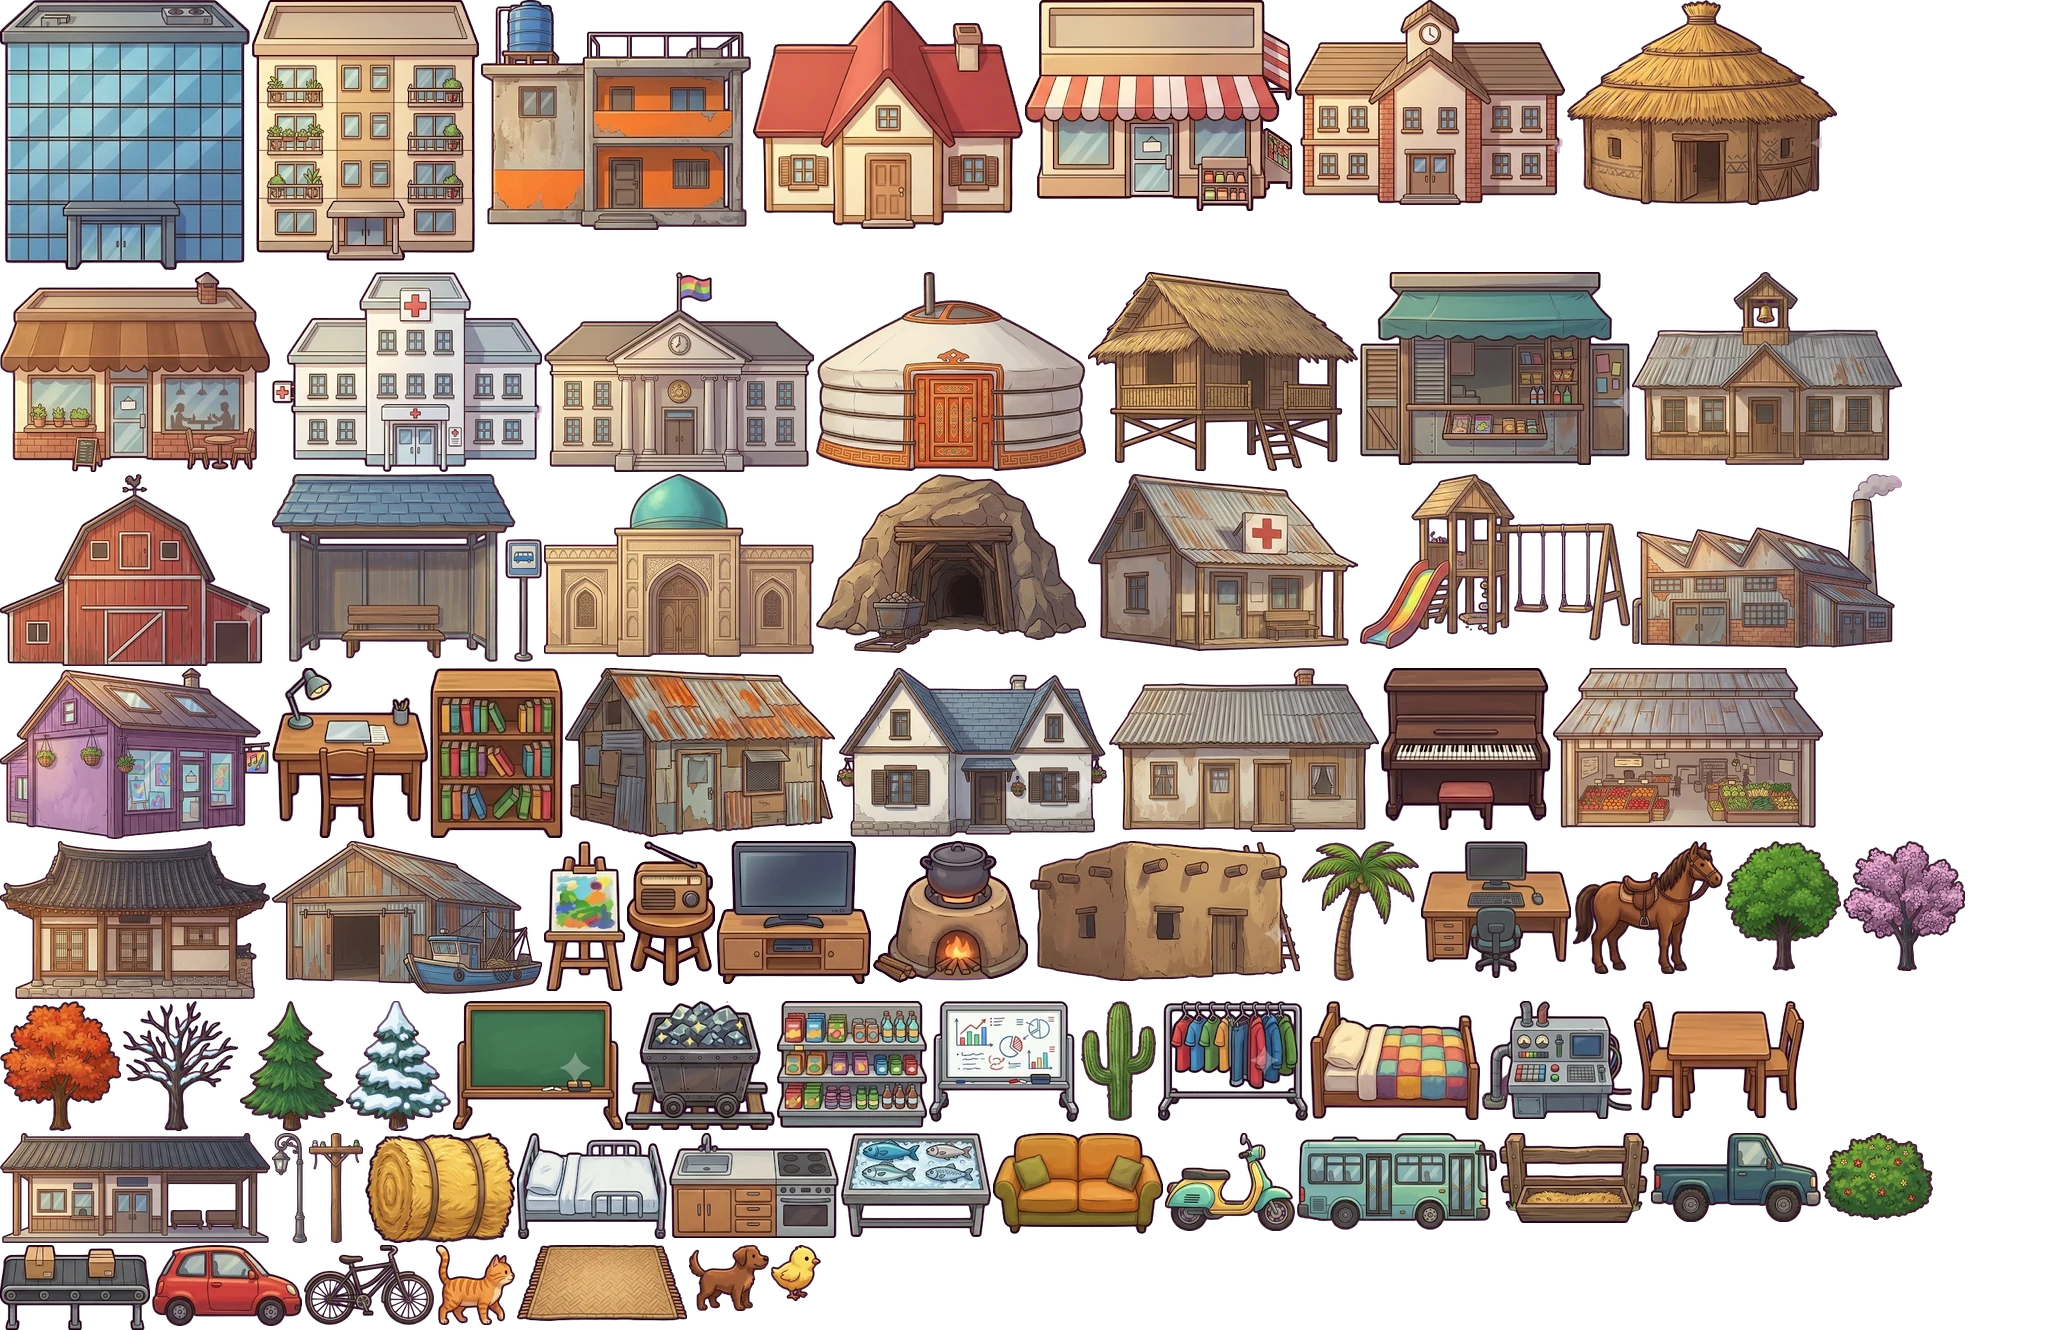
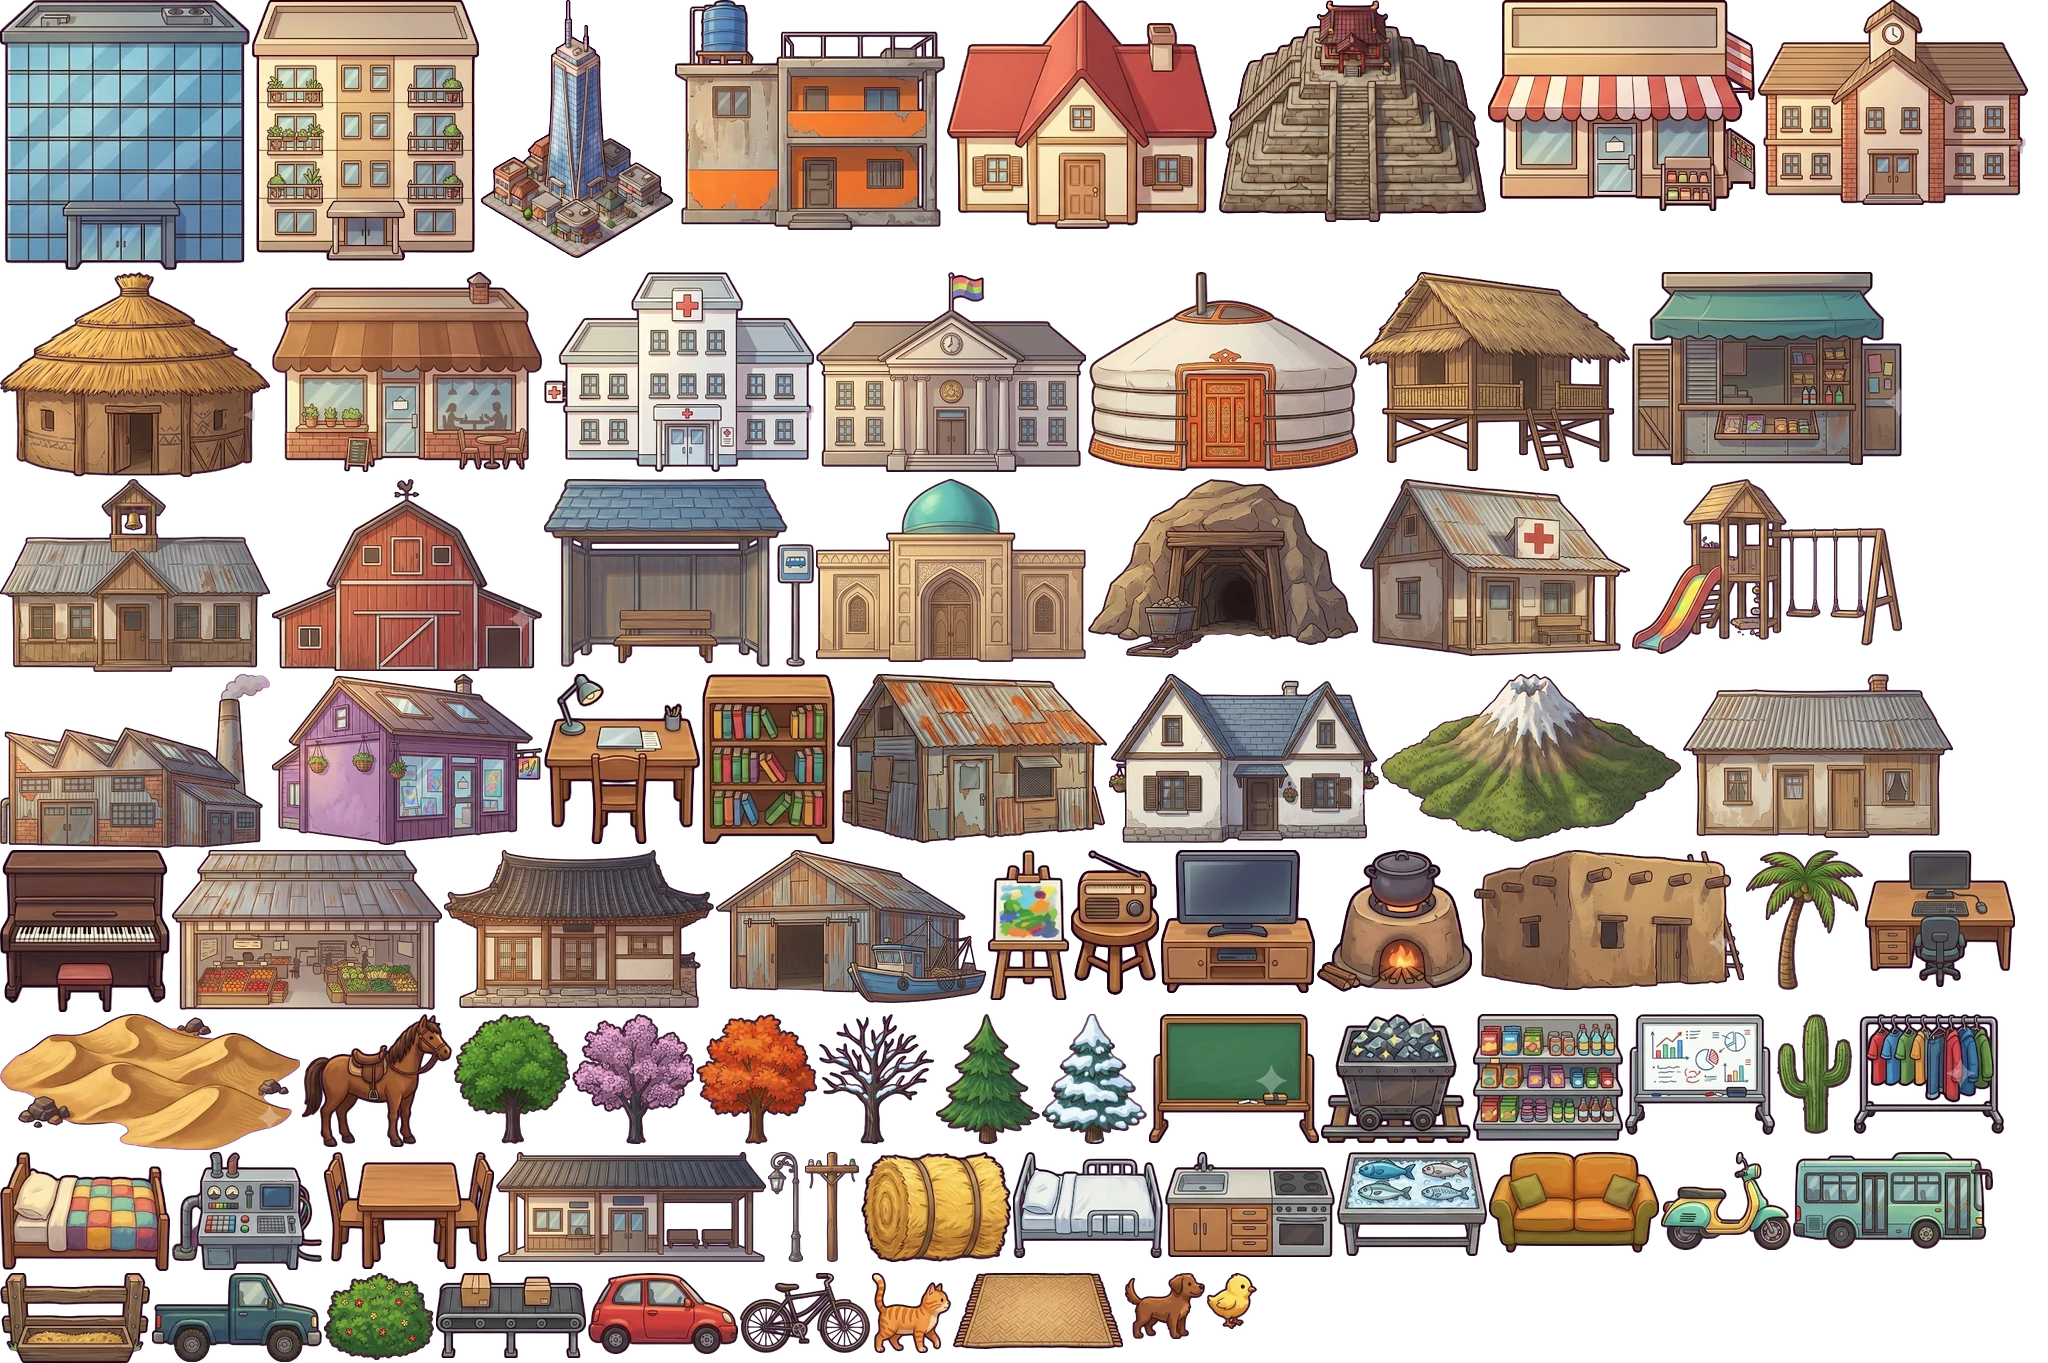
Gemini art round 2: title painting, landmarks, region- and sex-matched ending paintings
Claude-Session: https://claude.ai/code/session_01QZTZuescjVpiySQdVTiWS8

diff --git a/index.html b/index.html
@@ -634,6 +634,9 @@ canvas#card{box-shadow:0 14px 36px rgba(0,0,0,.55),0 0 0 1px rgba(255,201,168,.3
 #rotateTip button{font:inherit;border:2px solid #fff;background:transparent;color:#fff;border-radius:10px;padding:10px 16px;cursor:pointer}
 #rotateTip button.pri{background:#F2C14E;color:#283038;border-color:#F2C14E;font-weight:700}
 @media (orientation:portrait) and (pointer:coarse) and (max-width:820px){ body.ingame:not(.portraitOK) #rotateTip{display:flex} }
+
+.pixcv{image-rendering:auto}
+#titleCv{max-width:min(560px,100%)}
 </style>
 </head>
 <body>
@@ -8264,7 +8267,7 @@ function finishLife(){
   const who = young ? (dadOK?`엄마 ${josa(momN,'과','와')} 아빠 ${josa(dadN,'이','가')} 곁을 지키고 있었습니다.`:`엄마 ${josa(momN,'이','가')} 곁을 지키고 있었습니다.`)
     : withN.length?`${josa(list(withN),'이','가')} 곁을 지키고 있었습니다.`:(L.s.r>=55?`오랜 친구 ${P.friend?josa(P.friend.n,'이','가'):'친구들이'} 곁을 지키고 있었습니다.`:'창밖으로는 늘 걷던 길이 보였습니다.');
   const how = L.cause==='epi'?`${josa(cz.n,'이','가')} 번진 해, 갑작스러운 이별이었습니다.`:L.cause==='sudden'?'예고 없이 찾아온, 갑작스러운 이별이었습니다.':young?'한동안 앓던 끝이었습니다.':'오래 앓던 끝에, 마지막 시간은 집에서 가족과 함께 보냈습니다.';
-  const s1=`<p class="soft">${by+a}년 · ${a}살 · ${seasonOf(L)} · ${esc(C.n)} ${esc(L.town||'')}</p><p class="big">${esc(nm)}(${by}~${by+a})${josa(nm,'은','는').slice(nm.length)} ${young?'짧은 삶을 마쳤습니다.':'조용히 눈을 감았습니다.'}</p><p>${esc(who)} ${how}</p><p class="soft">${young?'짧았지만, 분명히 있었던 삶이었습니다.':`${a}년 동안 ${L.n}번의 선택을 하며 살았습니다.`}</p><figure class="lastart"><img src="art/sc/${young?'farewell':'life'}.webp" alt="" onerror="this.parentNode.remove()"></figure>`;
+  const s1=`<p class="soft">${by+a}년 · ${a}살 · ${seasonOf(L)} · ${esc(C.n)} ${esc(L.town||'')}</p><p class="big">${esc(nm)}(${by}~${by+a})${josa(nm,'은','는').slice(nm.length)} ${young?'짧은 삶을 마쳤습니다.':'조용히 눈을 감았습니다.'}</p><p>${esc(who)} ${how}</p><p class="soft">${young?'짧았지만, 분명히 있었던 삶이었습니다.':`${a}년 동안 ${L.n}번의 선택을 하며 살았습니다.`}</p><figure class="lastart"><img src="art/sc/${scArtName(young?'farewell':'life',L)}.webp" alt="" onerror="this.parentNode.remove()"></figure>`;
   // 2막 · 세 장면
   const three=pickThree(L), hp=(L.hist||[]).reduce((b,x)=>x.j>(b?b.j:-1)?x:b,null);
   const photosHTML=arr=>`<ul class="photos">${arr.map((m,i)=>`<li style="animation-delay:${i*.6}s"><figure class="pf" style="margin:0"><canvas data-mi="${L.mem.indexOf(m)}" width="320" height="240"></canvas><figcaption>${by+m.a}년 · ${m.a}살</figcaption><small class="cr"></small></figure><div><b>${m.a}살 · ${by+m.a}년</b>${m.q?`<p class="mq">${esc(m.q)}${m.l?`<span class="ml">→ ${esc(m.l)}</span>`:''}</p>`:''}<p>${esc(memT(m))}${m.rp>1?` <small class="rp">(그 뒤로도 ${m.rp-1}번 더)</small>`:''}</p></div></li>`).join('')}</ul><p class="note">사진은 위키백과·위키미디어 공용에 자유 이용으로 공개된 실제 사진입니다(사진 아래에 찍은 사람과 라이선스 표시). 사람이 나오는 장면(결혼·졸업·가족 등)은 이 삶의 모습으로 그린 그림이고, 사진을 불러오지 못하면 그림으로 대신합니다.</p>`;
@@ -8707,7 +8710,7 @@ $('btnMem').onclick=()=>openMem('all');
 /* ========== 그림 자원 (제미나이로 그린 건물·나무·탈것·바닥·장면) ========== */
 // 그림이 다 오기 전이나 못 받으면 예전 도트 그림으로 그린다
 const WR=3;   // 바깥·방 바닥 그림의 해상도 배율
-const ART_MAP={"spr": {"office": [0, 0, 250, 270], "apt": [252, 0, 227, 261], "flat": [481, 0, 270, 230], "house": [753, 0, 270, 229], "shop": [1025, 0, 268, 211], "school": [1295, 0, 270, 205], "thatch": [1567, 0, 270, 205], "cafe": [0, 272, 270, 200], "hospital": [272, 272, 270, 200], "hall": [544, 272, 270, 200], "ger": [816, 272, 270, 199], "stilt": [1088, 272, 270, 199], "kiosk": [1360, 272, 270, 193], "schoolS": [1632, 272, 270, 193], "barn": [0, 474, 270, 192], "busstop": [272, 474, 270, 188], "dome": [544, 474, 270, 183], "mine": [816, 474, 270, 179], "clinic": [1088, 474, 270, 177], "play": [1360, 474, 270, 175], "factory": [1632, 474, 270, 174], "studio": [0, 668, 270, 171], "desk": [272, 668, 156, 170], "shelf": [430, 668, 133, 170], "tin": [565, 668, 270, 169], "house_eu": [837, 668, 270, 169], "tinS": [1109, 668, 270, 164], "piano": [1381, 668, 170, 162], "market": [1553, 668, 270, 160], "hanok": [0, 841, 270, 158], "port": [272, 841, 270, 153], "w_easel": [544, 841, 81, 150], "radio": [627, 841, 88, 145], "tv": [717, 841, 154, 143], "hearth": [873, 841, 155, 142], "adobe": [1030, 841, 270, 140], "palm": [1302, 841, 117, 140], "w_desk": [1421, 841, 150, 137], "horse": [1573, 841, 150, 133], "tree": [1725, 841, 116, 130], "tree_sp": [1843, 841, 122, 130], "tree_au": [0, 1001, 121, 130], "tree_wi": [123, 1001, 115, 130], "pine": [240, 1001, 104, 130], "pine_sn": [346, 1001, 105, 130], "board": [453, 1001, 170, 129], "w_cart": [625, 1001, 150, 129], "w_goods": [777, 1001, 150, 127], "w_white": [929, 1001, 150, 121], "cactus": [1081, 1001, 75, 120], "w_rack": [1158, 1001, 150, 120], "bed": [1310, 1001, 170, 119], "w_machine": [1482, 1001, 150, 118], "table": [1634, 1001, 170, 117], "station": [0, 1133, 270, 110], "lamp": [272, 1133, 35, 110], "pole": [309, 1133, 54, 110], "w_hay": [365, 1133, 150, 110], "w_bed": [517, 1133, 150, 106], "counter": [669, 1133, 170, 105], "w_fish": [841, 1133, 150, 104], "sofa": [993, 1133, 170, 101], "moto": [1165, 1133, 130, 98], "bus": [1297, 1133, 200, 97], "w_fence": [1499, 1133, 150, 90], "truck": [1651, 1133, 170, 89], "bush": [1823, 1133, 110, 87], "w_belt": [0, 1245, 150, 85], "car": [152, 1245, 150, 81], "cycle": [304, 1245, 130, 80], "cat": [436, 1245, 79, 80], "mat": [517, 1245, 170, 76], "dog": [689, 1245, 80, 66], "chick": [771, 1245, 50, 56]}, "tex": ["g", "f", "p", "w", "r", "k", "s", "c", "d", "wood", "tile", "earth", "tatami", "carpet", "lino", "concrete", "rock"]};
+const ART_MAP={"spr": {"office": [0, 0, 250, 270], "apt": [252, 0, 227, 261], "lm_ct": [481, 0, 192, 258], "flat": [675, 0, 270, 230], "house": [947, 0, 270, 229], "lm_tp": [1219, 0, 267, 222], "shop": [1488, 0, 268, 211], "school": [1758, 0, 270, 205], "thatch": [0, 272, 270, 205], "cafe": [272, 272, 270, 200], "hospital": [544, 272, 270, 200], "hall": [816, 272, 270, 200], "ger": [1088, 272, 270, 199], "stilt": [1360, 272, 270, 199], "kiosk": [1632, 272, 270, 193], "schoolS": [0, 479, 270, 193], "barn": [272, 479, 270, 192], "busstop": [544, 479, 270, 188], "dome": [816, 479, 270, 183], "mine": [1088, 479, 270, 179], "clinic": [1360, 479, 270, 177], "play": [1632, 479, 270, 175], "factory": [0, 674, 270, 174], "studio": [272, 674, 270, 171], "desk": [544, 674, 156, 170], "shelf": [702, 674, 133, 170], "tin": [837, 674, 270, 169], "house_eu": [1109, 674, 270, 169], "lm_mt": [1381, 674, 300, 168], "tinS": [1683, 674, 270, 164], "piano": [0, 850, 170, 162], "market": [172, 850, 270, 160], "hanok": [444, 850, 270, 158], "port": [716, 850, 270, 153], "w_easel": [988, 850, 81, 150], "radio": [1071, 850, 88, 145], "tv": [1161, 850, 154, 143], "hearth": [1317, 850, 155, 142], "adobe": [1474, 850, 270, 140], "palm": [1746, 850, 117, 140], "w_desk": [1865, 850, 150, 137], "lm_ds": [0, 1014, 300, 136], "horse": [302, 1014, 150, 133], "tree": [454, 1014, 116, 130], "tree_sp": [572, 1014, 122, 130], "tree_au": [696, 1014, 121, 130], "tree_wi": [819, 1014, 115, 130], "pine": [936, 1014, 104, 130], "pine_sn": [1042, 1014, 105, 130], "board": [1149, 1014, 170, 129], "w_cart": [1321, 1014, 150, 129], "w_goods": [1473, 1014, 150, 127], "w_white": [1625, 1014, 150, 121], "cactus": [1777, 1014, 75, 120], "w_rack": [1854, 1014, 150, 120], "bed": [0, 1152, 170, 119], "w_machine": [172, 1152, 150, 118], "table": [324, 1152, 170, 117], "station": [496, 1152, 270, 110], "lamp": [768, 1152, 35, 110], "pole": [805, 1152, 54, 110], "w_hay": [861, 1152, 150, 110], "w_bed": [1013, 1152, 150, 106], "counter": [1165, 1152, 170, 105], "w_fish": [1337, 1152, 150, 104], "sofa": [1489, 1152, 170, 101], "moto": [1661, 1152, 130, 98], "bus": [1793, 1152, 200, 97], "w_fence": [0, 1273, 150, 90], "truck": [152, 1273, 170, 89], "bush": [324, 1273, 110, 87], "w_belt": [436, 1273, 150, 85], "car": [588, 1273, 150, 81], "cycle": [740, 1273, 130, 80], "cat": [872, 1273, 79, 80], "mat": [953, 1273, 170, 76], "dog": [1125, 1273, 80, 66], "chick": [1207, 1273, 50, 56]}, "tex": ["g", "f", "p", "w", "r", "k", "s", "c", "d", "wood", "tile", "earth", "tatami", "carpet", "lino", "concrete", "rock"]};
 const ART={ok:false,spr:null,tex:null,M:ART_MAP,T:{},P:{}};
 function artLoad(src){ return new Promise((res,rej)=>{ const im=new Image(); im.decoding='async'; im.onload=()=>res(im); im.onerror=rej; im.src=src; }); }
 Promise.all([artLoad('art/spr.webp'),artLoad('art/tex.webp')]).then(([s,t])=>{ ART.spr=s; ART.tex=t; ART.ok=true; worldLayer.k=null; roomLayer.k=null; CACHE.forEach((v,k)=>{ if(/^(VHD|VLO|AHD)/.test(k)) CACHE.delete(k); }); }).catch(()=>{});
@@ -8833,7 +8836,8 @@ animalSprite=function(kind,fr,face){ if(!ART.ok||!artHas(kind)) return _animalSp
 const SC_ART=new Set(['house','flood','quake','storm','drought','heat','cold','fire','volcano','sea','unrest','baby','birth','farewell','wedding','sick','hosp','school','grad','noschool','job','harvest','jobloss','money','mine','fest','sport','travel','pet','friend','stage','town','life']);
 const SC_RURAL=new Set(['house','school','birth','baby','job','hosp']);
 const SC_IMG={};
-function scArtName(kind,L){ if(!SC_ART.has(kind)) return null; if(L&&L.C&&SC_RURAL.has(kind)&&(L.C.tier<=1||(L.C.tier===2&&L.set==='R'))) return (kind==='baby'?'birth':kind)+'_r'; return kind; }
+const SC_REG=new Set(['life','farewell']), RG_ART={EA:'EA',SE:'SE',SA:'SA',AF:'AF',ME:'ME',CA:'ME',LA:'LA',EU:'WE',NA:'WE',OC:'WE'};
+function scArtName(kind,L){ if(kind==='title') return 'title'; if(!SC_ART.has(kind)) return null; if(L&&L.C&&SC_REG.has(kind)&&RG_ART[L.C.rg]) return kind+'_'+RG_ART[L.C.rg]+(kind==='life'?(L.sex===0?'_m':'_f'):''); if(L&&L.C&&SC_RURAL.has(kind)&&(L.C.tier<=1||(L.C.tier===2&&L.set==='R'))) return (kind==='baby'?'birth':kind)+'_r'; return kind; }
 function scImg(n){ let e=SC_IMG[n]; if(!e){ e=SC_IMG[n]={im:null}; artLoad('art/sc/'+n+'.webp').then(im=>e.im=im).catch(()=>{}); } return e.im; }
 function scPreload(kinds,L){ kinds.forEach(k=>{ const n=scArtName(k,L); if(n) scImg(n); }); }
 const _drawScene=drawScene;

diff --git a/README.md b/README.md
@@ -33,3 +33,4 @@
 - 그림 4판 (제미나이로 그림): 건물 28종·나무·가로등·놀이터·탈것·동물·가구·바닥 무늬를 한 화풍의 손그림으로 바꾸고, 바깥과 방을 3배 해상도로 그립니다(`art/spr.webp`·`art/tex.webp`·`art/atlas.json`). 사람은 같은 화풍에 맞춰 갈색 테두리와 은은한 명암. 그림을 못 받으면 예전 도트 그림으로 그립니다.
 - 장면 그림: 사건 창과 엔딩의 장면 33종(+살림이 어려운 시골판 5종)을 손그림 애니메이션풍 일러스트로(`art/sc/*.webp`, 필요할 때만 받음). 엔딩 첫 장에도 그림.
 - 휴대폰: 가로로 들면 컴퓨터와 같은 배치를 작게 보여 주고, 세로로 들면 가로로 돌려 달라는 안내(안드로이드는 '가로 전체 화면으로'로 바로 전환).
+- 그림 5판 (제미나이): 첫 화면 그림(언덕 위 아이가 내려다보는 넓은 세상), 먼 곳 명소 4종(눈 덮인 산·계단식 사원·고층 타워·사막 언덕)을 같은 화풍으로. 엔딩 첫 장 그림은 지역 7곳(동아시아·동남아·남아시아·아프리카·중동/중앙아시아·라틴아메리카·유럽/북미/오세아니아)과 성별에 맞춘 노년 모습, 어려서 떠난 삶은 지역에 맞춘 이별 장면.
